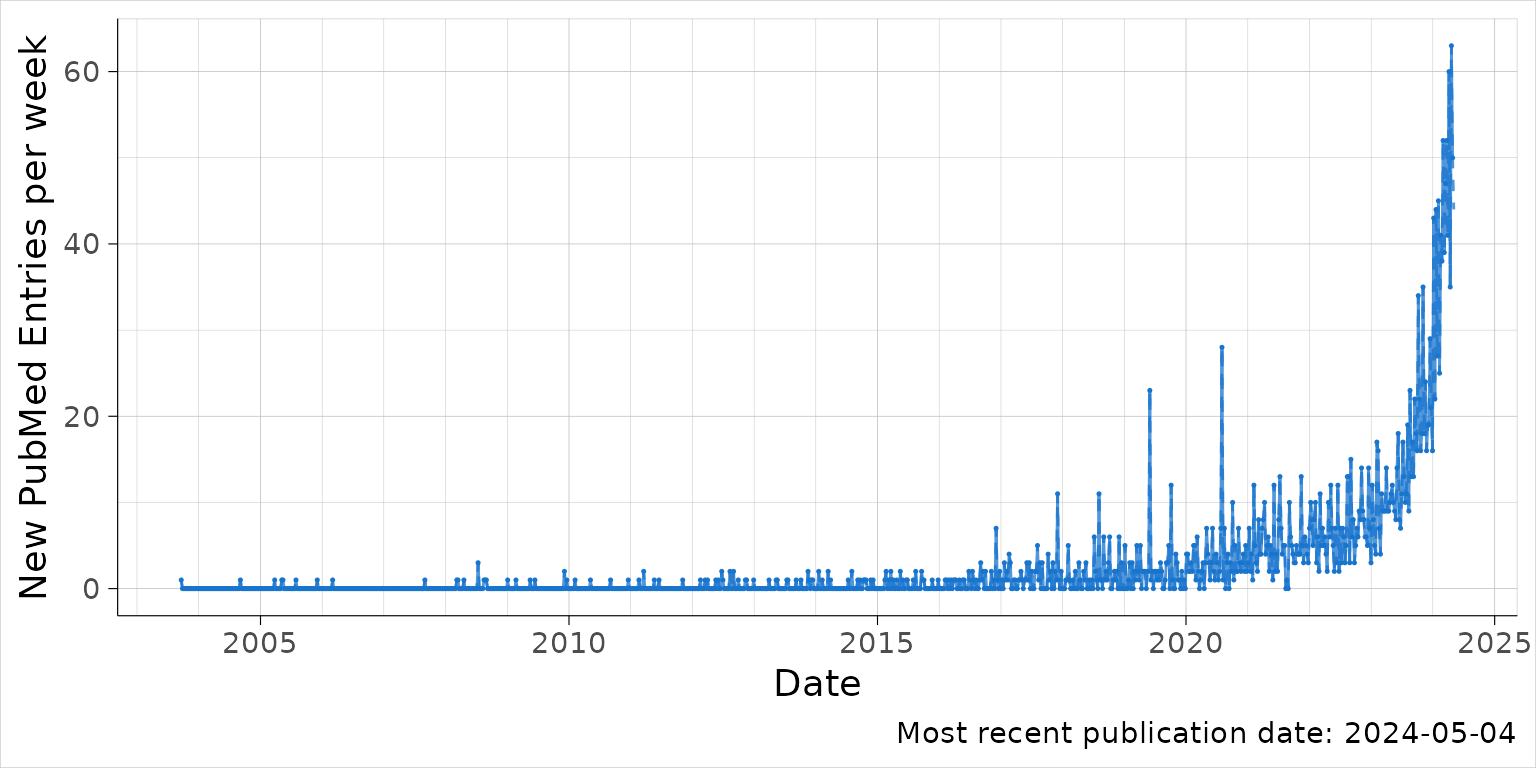
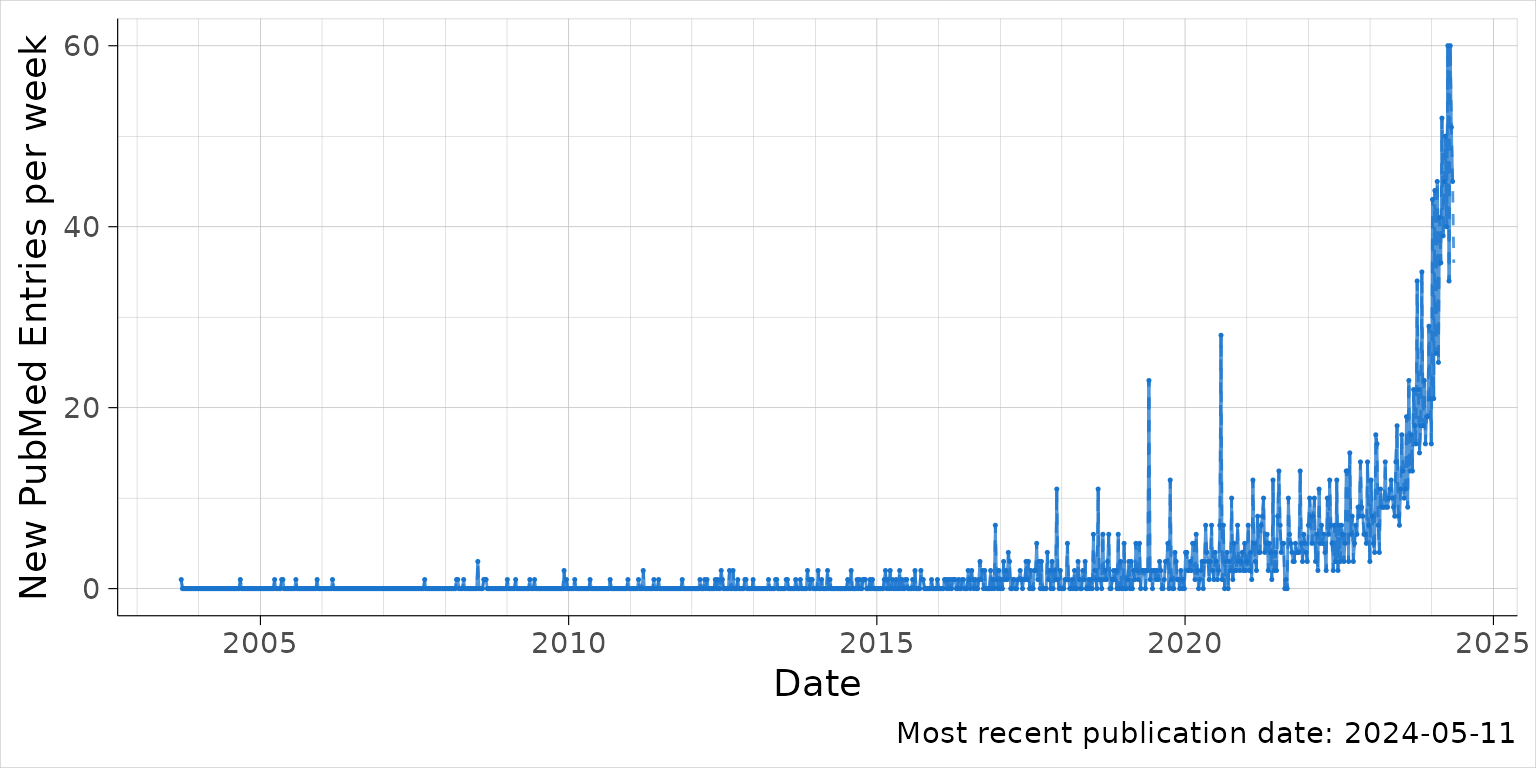
Deploying to gh-pages from @ explodecomputer/PubmedPlot@59f68a979db9b8da6097854e7cc271a99063c6fb 🚀

diff --git a/articles/mr.html b/articles/mr.html
@@ -92,7 +92,7 @@
 <span><span class="co">#&gt; Warning: There was 1 warning in `dplyr::mutate()`.</span></span>
 <span><span class="co">#&gt; <span style="color: #00BBBB;">ℹ</span> In argument: `pub_date = lubridate::ymd(pub_date)`.</span></span>
 <span><span class="co">#&gt; Caused by warning:</span></span>
-<span><span class="co">#&gt; <span style="color: #BBBB00;">!</span>  3826 failed to parse.</span></span>
+<span><span class="co">#&gt; <span style="color: #BBBB00;">!</span>  3870 failed to parse.</span></span>
 <span><span class="va">res</span> <span class="op">&lt;-</span> <span class="va">a</span><span class="op">$</span><span class="va">res</span></span>
 <span><span class="va">cap_verb</span><span class="op">=</span><span class="st">"Data from PubMed search for Mendelian randomi[s/z]ation, title only. "</span></span>
 <span><span class="va">xlab</span><span class="op">=</span><span class="st">"Date"</span></span>
